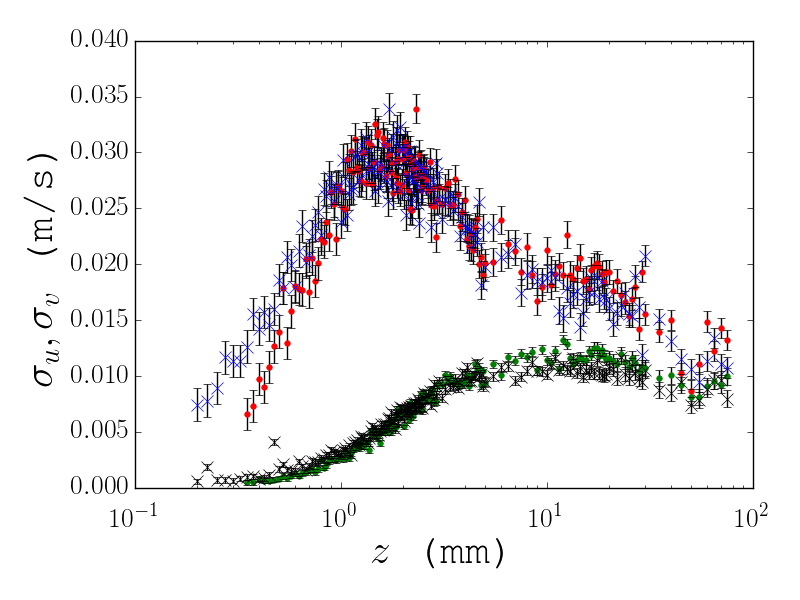
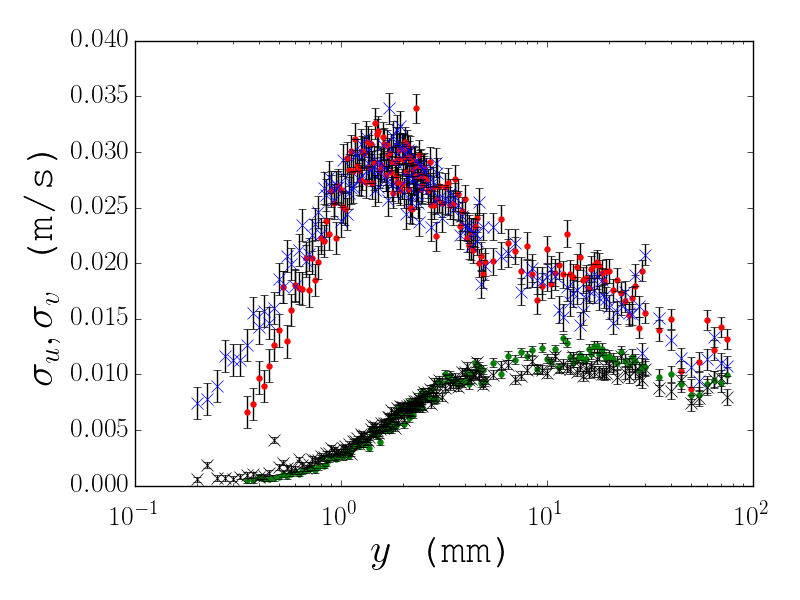
Continue plotting

diff --git a/profiles/Code/processingScript.py b/profiles/Code/processingScript.py
@@ -37,7 +37,7 @@ from FilterFunctions import Filter
 ##	2.	import txt file: Give a hard coded name for now
 writeData = False
 #writeData = True
-plotDimensionedData = False
+plotDimensionedData = True
 
 
 rawPath = 	["../Data/rawData/4hz/300mm/*/*.txt",
@@ -152,7 +152,7 @@ if plotDimensionedData == True:
 		plt.errorbar(d2.z,d2.UxMean,yerr=d2.error_UxMean, linestyle = "None",color = 'k')
 	#	plt.xticks(fontsize=25)
 	#	plt.yticks(fontsize=25)
-		plt.xlabel(r'$z$ (mm)',fontsize=30)
+		plt.xlabel(r'$y$ (mm)',fontsize=30)
 		plt.ylabel(r'$\mu_u$ (m/s)',fontsize=30)
 		ax.ticklabel_format(axis='y', style='sci', scilimits=(-3,1))
 		ax.tick_params(axis='x', pad=15)
@@ -184,7 +184,7 @@ if plotDimensionedData == True:
 #
 	#	plt.xticks(fontsize=25)
 	#	plt.yticks(fontsize=25)
-		plt.xlabel(r'$z$ (mm)',fontsize=30)
+		plt.xlabel(r'$y$ (mm)',fontsize=30)
 		plt.ylabel(r'$\sigma_u,\sigma_v$ (m/s)',fontsize=30)
 		ax.ticklabel_format(axis='y', style='sci', scilimits=(-3,1))
 		ax.tick_params(axis='x', pad=15)
@@ -213,7 +213,7 @@ if plotDimensionedData == True:
 		plt.errorbar(d2.z,d2.uv,yerr=d2.error_uv, linestyle = "None",color = 'k')
 	#	plt.xticks(fontsize=25)
 	#	plt.yticks(fontsize=25)
-		plt.xlabel(r'$z$ (mm)',fontsize=30)
+		plt.xlabel(r'$y$ (mm)',fontsize=30)
 		plt.ylabel(r'$\gamma_{u,v}$ (m\textsuperscript{2}/s\textsuperscript{2})',fontsize=30)
 #		plt.legend(handles=[plot1,plot2],loc=3)
 	#	ax.legend(handles=[plot1,plot2],loc='upper right', bbox_to_anchor=(1, 1.05))
@@ -292,19 +292,62 @@ def wallFinder(U,Y):
 test2 = True
 if test2 == True:
 	d = [pd.read_pickle(dataPath[0]),pd.read_pickle(dataPath[1]),pd.read_pickle(dataPath[2]),pd.read_pickle(dataPath[3])]
+	case = ['4Hz_300','4Hz_400','8Hz_300','8Hz_400']
 	for j in range(len(d)):
 		U = d[j].UxMean.as_matrix()
+		e = d[j].error_UxMean.as_matrix()
 		Y = d[j].z.as_matrix()/1000
 		[UtauEst,Ynew] = wallFinder(U,Y)
 		Y = Ynew
 #
 ##	Check if this works as a scalar:
-		nu = 1.1*10**(-6)		
-		plt.semilogx(Y*UtauEst/nu,U/UtauEst,ls=' ',marker='o')
-		plt.plot(Y[0:100]*UtauEst/nu,Y[0:100]*UtauEst/nu)
-		plt.plot(Y*UtauEst/nu,np.log(Y*UtauEst/nu)/0.41+5.2)
-		plt.show()
+		nu = 1.1*10**(-6)
+		kappa = 0.41
+		B = 5.2		
+#		plt.semilogx(Y*UtauEst/nu,U/UtauEst,ls=' ',marker='o')
+#		plt.plot(Y[0:100]*UtauEst/nu,Y[0:100]*UtauEst/nu)
+#		plt.plot(Y*UtauEst/nu,np.log(Y*UtauEst/nu)/kappa+B)
+#		plt.show()
+#		plt.close()
+#
+##	Use as estimate for range of log-law
+		Ulog = U[np.where((Y*UtauEst/nu > 30) & (Y*UtauEst/nu < 150))]
+		Ylog = np.log(Y[np.where((Y*UtauEst/nu > 30) & (Y*UtauEst/nu < 150))])
+#		print(Ulog,Ylog)
+#		print(U,Y)
+#		print(type(Ulog),type(U))
+		[a,b,r] = linearReg(Ulog,Ylog)
+		Utau = b*kappa
+		print(Utau,UtauEst,(UtauEst-Utau)/UtauEst)#,0.1*Utau/nu,0.1*UtauEst/nu)
+		B = a/Utau - np.log(Utau/nu)/kappa
+#		print(B)
+#
+##		Plot new
+
+		f=plt.figure()
+		ax = f.add_subplot(111)
+		font = {'family' : 'monospace',
+        'weight' : 'bold',
+        'size'   : 20}
+#
+		plt.rc('font', **font)
+		plt.rc('text', usetex=True)
+#
+		plt.semilogx(Y*Utau/nu,U/Utau,ls=' ',marker='o',color='k')
+		plt.errorbar(Y*Utau/nu,U/Utau,yerr=e/Utau, linestyle = "None",color = 'k')
+		plt.plot(Y[0:100]*UtauEst/nu,Y[0:100]*UtauEst/nu,ls='-',color='r')
+		plt.plot(Y*Utau/nu,np.log(Y*Utau/nu)/kappa+B,ls='-',color='b')
+		plt.xlabel(r'$y^+$',fontsize=30)
+		plt.ylabel(r'$U^+$',fontsize=30)
+#		ax.ticklabel_format(axis='y', style='sci', scilimits=(-3,1))
+		ax.tick_params(axis='x', pad=15)
+		mpl.ticker.ScalarFormatter(useMathText = True)
+		write = '../Data/processedData/figures/Uplus_Yplus_'+str(case[j])+'.png'
+		plt.savefig(write)
+#		plt.show()
 		plt.close()
+		
+
 #		[Delta,Ynew] = wallFinder(U,Y)
 #		print(Delta)
 #		print(Ynew)
